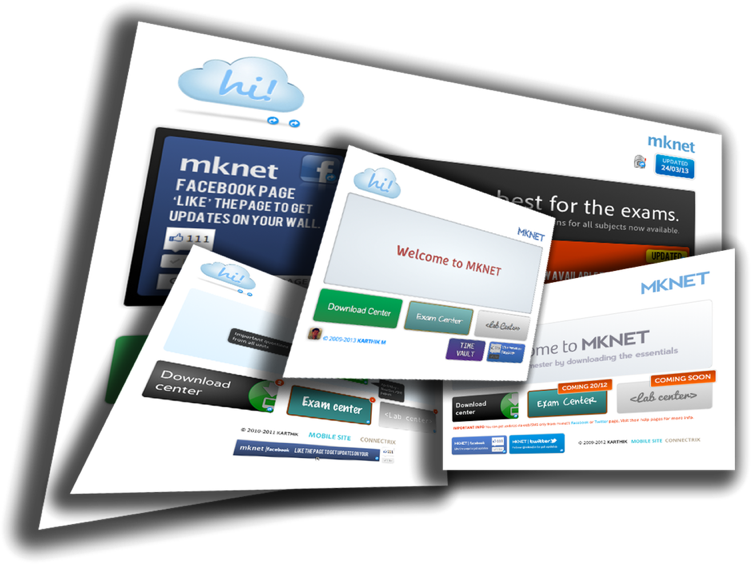
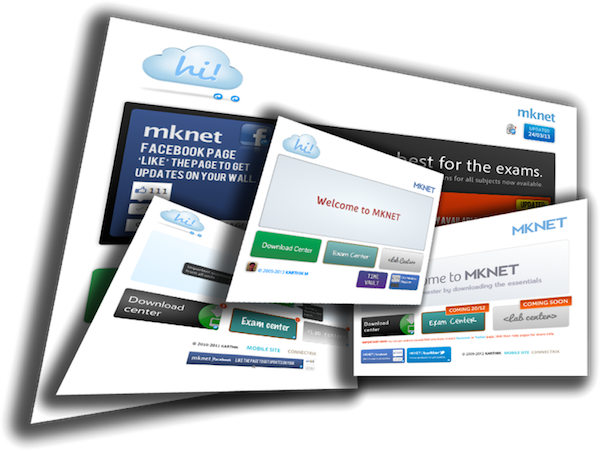
Fixed gallery layout, minor changes to proj container layout

diff --git a/styles.css b/styles.css
@@ -1,1 +1,1 @@
-@import url(http://fonts.googleapis.com/css?family=Pacifico&text=hi!);@font-face{font-family:"Nitti Grotesk";src:url(fonts/nittigrotesk-normal.otf) format('opentype');}@font-face{font-family:"Nitti Grotesk Bold";src:url(fonts/nittigrotesk-bold.otf) format('opentype');}@font-face{font-family:"Apercu";src:url(fonts/apercu_mono_pro.ttf) format('truetype');}body{background-color:#373737}::selection{background-color:#384dd8;color:#8a94d3}hr{border:none;height:1px;background:-webkit-linear-gradient(left, #ffffff 0%, #d9d9d9 5%, #bcbcbc 50%, #d8d8d8 95%, #ffffff 100%)}.header{position:fixed;width:100%;height:auto;padding:1px 0px 8px 0px;z-index:0;text-align:center;box-shadow:none;border-radius:1px;background-color:white;-webkit-animation:fadeInDown 0.5s;animation:fadeInDown 0.5s;-webkit-transition:all 0.3s ease-out;transition:all 0.3s ease-out;-webkit-user-select:none;user-select:none}.logo{font-family:Nitti Grotesk,sans-serif;font-size:20px;letter-spacing:2px;text-align:center}.logo-rounded{border-radius:25px}.navlinks{display:inline-block;margin-top:3px;font-family:Apercu,sans-serif;font-size:16px;-webkit-animation:slideInDown 1s;animation:slideInDown 1s}.navlinks>a{display:inline-block;min-width:105px;padding:4px;margin-right:-10px;border-top:2px solid black;border-bottom:2px solid black;border-left:2px solid black;color:black;text-decoration:none;cursor:default;-webkit-transition:all 0.2s ease-out;transition:all 0.2s ease-out}.navlinks>a.left{border-radius:4px 0px 0px 4px}.navlinks>a.right{border-radius:0px 4px 4px 0px;border-right:2px solid black;margin-right:10px}.navlinks>a:hover{color:#ffffff;background-color:black;-webkit-transition:all 0.2s ease;transition:all 0.2s ease}.navlinks>a:active{color:#9b9b9b;background-color:#353535;-webkit-transition:all 0.2s ease-in;transition:all 0.2s ease-in}.container-fluid{padding:0px}.row{margin-left:0;margin-right:0}.mkcontainer{top:74px;position:relative;border-radius:1px;overflow-x:hidden !important;-webkit-animation:fadeIn 0.2s;animation:fadeIn 0.2s}.contentcontainer,.proj-container,.design-container,.abt-container{z-index:10;position:relative}.pre{text-align:center;font-family:Nitti Grotesk Bold,sans-serif;font-size:100px;text-shadow:0px 0px 50px rgba(0,0,0,0.8);height:50vh;line-height:50vh;background-position:50% 0%;background-size:cover;background-attachment:fixed;-webkit-user-select:none;user-select:none}.pre-hello-container{overflow:hidden}.pre-hello{height:100vh;line-height:90vh;font-family:Pacifico;background-image:url(images/bg.jpg);-webkit-animation-duration:0.5s;animation-duration:0.5s;-webkit-user-select:none;user-select:none}.pre-proj{background-image:url(images/proj-banner.jpg)}.proj-container{font-family:Apercu;color:rgba(255,255,255,0.6);font-size:18px;line-height:1.5em;text-align:center;min-height:90vh;padding:20px 32px 32px 32px}.proj-teams{background-color:#332577}.proj-tetris{background-color:#287038}.proj-shipwars{background-color:#793e38}.proj-spark{background-color:#173463}.proj-lelivre{text-align:left;background-color:#286458}.proj-stockr{text-align:right;background-color:#625a4c}.proj-zones{background-color:#5d2f64}.proj-mknet{background-color:#334c72}.proj-aflame{background-color:#C62828}.pre-design{background-image:url(images/rain.jpg)}.design-container{padding:32px;background-color:steelblue}.pre-abt{background-image:url(images/meteor.jpg)}.abt-container{padding:32px;background-color:#323d52}#top-right-logo{float:right;margin-top:-35px;margin-right:8px;-webkit-animation-duration:0.3s;animation-duration:0.3s}.down-arrow{font-size:75px;text-align:center;text-shadow:0px 0px 50px rgba(0,0,0,0.6);cursor:default;margin-top:-175px;z-index:100px;text-decoration:none;color:rgba(240,240,240,0.6);-webkit-animation-iteration-count:infinite;animation-iteration-count:infinite}.down-arrow:hover{text-shadow:0px 0px 50px rgba(100,100,100,0.6);color:#f0f0f0}.down-arrow:active{text-shadow:0px 0px 50px black;color:rgba(240,240,240,0.2)}.title,.title:hover{color:rgba(255,255,255,0.8);cursor:default;text-decoration:none;-webkit-transition:all 0.3s ease;transition:all 0.3s ease}.proj-title{font-family:Apercu;font-size:26px;color:white}.proj-logo{margin-bottom:10px;-webkit-filter:drop-shadow(0px 0px 30px rgba(25, 25, 25, 0.32));filter:drop-shadow(0px 0px 30px rgba(25, 25, 25, 0.32))}.mktext{font-family:Apercu;color:rgba(255,255,255,0.6);font-size:18px;line-height:1.5em;text-align:justify;-webkit-transition:all 0.2s ease-in;transition:all 0.2s ease-in}.mktag,.tag-time,.tag-tech{font-family:Apercu;font-size:14px;border-radius:4px;border:1px solid rgba(255,255,255,0.5);padding:3px 6px 3px 6px;cursor:default;-webkit-user-select:none;user-select:none}.tag-time{color:rgba(255,255,255,0.7);background-color:rgba(255,255,255,0.2)}.tag-tech{color:rgba(255,255,255,0.5)}.mkimg{float:right;margin-left:7px;background-image:url(images/mk.jpg);background-size:cover;width:100px;height:100px;box-shadow:inset 0px 0px 5px #232323;border-radius:50px}.link-btn{float:left;margin:5px;padding:5px;color:white;background:none;font-size:35px;border:none;border-radius:4px;cursor:default;text-decoration:none;-webkit-transition:all 0.2s ease-in;transition:all 0.2s ease-in;-webkit-user-select:none;user-select:none}.link-btn.email:hover{background-color:#0f93ff;color:white}.link-btn.linkedin:hover{background-color:#2286ba;color:white}.link-btn.twitter:hover{background-color:#59adeb;color:white}.link-btn.github:hover{background-color:white;color:#2f2f2f}.link-btn.instagram:hover{background-color:#487597;color:#ffffff}.gallery{padding:10px 0px 10px 5px;width:100%}.gallery img{width:auto;height:96px;border-radius:4px;-webkit-transition:all 0.2s ease;transition:all 0.2s ease;cursor:-webkit-zoom-in}.gallery img:hover{-webkit-transform:scale(1.2);transform:scale(1.2);box-shadow:0px 0px 20px 10px rgba(0,0,0,0.2);border:3px solid #0b65ff}.gallery img:active{-webkit-filter:brightness(80%)}.gallery figure{display:block;float:left;margin:5px 5px 0px 0px}.gallery figcaption{display:none}.pswp__caption{font-family:Apercu}@media only screen and (max-width: 600px){.header{-webkit-animation:rubberBand 0.6s;animation:rubberBand 0.6s}.logo{font-size:18px;-webkit-animation:slideInDown 1s;animation:slideInDown 1s}.navlinks{margin-top:2px;-webkit-animation:slideInDown 1s;animation:slideInDown 1s}.navlinks>a{border-width:1px;padding:4px 8px 4px 8px;font-size:14px;min-width:50px}.navlinks>a.right{border-width:1px}.mkcontainer{top:65px}.pre-hello{height:90vh}.pre{font-size:60px;text-shadow:0px 0px 40px #161616;background-attachment:scroll;background-position:50% 0%}.mktext{font-size:19px}#top-right-logo{margin-top:-32px;margin-right:5px}}
+@import url(http://fonts.googleapis.com/css?family=Pacifico&text=hi!);@font-face{font-family:"Nitti Grotesk";src:url(fonts/nittigrotesk-normal.otf) format('opentype');}@font-face{font-family:"Nitti Grotesk Bold";src:url(fonts/nittigrotesk-bold.otf) format('opentype');}@font-face{font-family:"Apercu";src:url(fonts/apercu_mono_pro.ttf) format('truetype');}body{background-color:#373737}::selection{background-color:#384dd8;color:#8a94d3}hr{border:none;height:1px;background:-webkit-linear-gradient(left, #ffffff 0%, #d9d9d9 5%, #bcbcbc 50%, #d8d8d8 95%, #ffffff 100%)}.header{position:fixed;width:100%;height:auto;padding:1px 0px 8px 0px;z-index:0;text-align:center;box-shadow:none;border-radius:1px;background-color:white;-webkit-animation:fadeInDown 0.5s;animation:fadeInDown 0.5s;-webkit-transition:all 0.3s ease-out;transition:all 0.3s ease-out;-webkit-user-select:none;user-select:none}.logo{font-family:Nitti Grotesk,sans-serif;font-size:20px;letter-spacing:2px;text-align:center}.logo-rounded{border-radius:25px}.navlinks{display:inline-block;margin-top:3px;font-family:Apercu,sans-serif;font-size:16px;-webkit-animation:slideInDown 1s;animation:slideInDown 1s}.navlinks>a{display:inline-block;min-width:105px;padding:4px;margin-right:-10px;border-top:2px solid black;border-bottom:2px solid black;border-left:2px solid black;color:black;text-decoration:none;cursor:default;-webkit-transition:all 0.2s ease-out;transition:all 0.2s ease-out}.navlinks>a.left{border-radius:4px 0px 0px 4px}.navlinks>a.right{border-radius:0px 4px 4px 0px;border-right:2px solid black;margin-right:10px}.navlinks>a:hover{color:#ffffff;background-color:black;-webkit-transition:all 0.2s ease;transition:all 0.2s ease}.navlinks>a:active{color:#9b9b9b;background-color:#353535;-webkit-transition:all 0.2s ease-in;transition:all 0.2s ease-in}.container-fluid{padding:0px}.row{margin-left:0;margin-right:0}.mkcontainer{top:74px;position:relative;border-radius:1px;overflow-x:hidden !important;-webkit-animation:fadeIn 0.2s;animation:fadeIn 0.2s}.contentcontainer,.proj-container,.design-container,.abt-container{z-index:10;position:relative}.pre{text-align:center;font-family:Nitti Grotesk Bold,sans-serif;font-size:100px;text-shadow:0px 0px 50px rgba(0,0,0,0.8);height:50vh;line-height:50vh;background-position:50% 0%;background-size:cover;background-attachment:fixed;-webkit-user-select:none;user-select:none}.pre-hello-container{overflow:hidden}.pre-hello{height:100vh;line-height:90vh;font-family:Pacifico;background-image:url(images/bg.jpg);-webkit-animation-duration:0.5s;animation-duration:0.5s;-webkit-user-select:none;user-select:none}.pre-proj{background-image:url(images/proj-banner.jpg)}.proj-container{font-family:Apercu;color:rgba(255,255,255,0.6);font-size:18px;line-height:1.5em;text-align:center;height:auto;padding:20px 32px 32px 32px}.proj-teams{background-color:#332577}.proj-tetris{background-color:#287038}.proj-shipwars{background-color:#793e38}.proj-spark{background-color:#173463}.proj-lelivre{background-color:#286458}.proj-stockr{background-color:#625a4c}.proj-zones{background-color:#5d2f64}.proj-mknet{background-color:#334c72}.proj-aflame{background-color:#C62828}.pre-design{background-image:url(images/rain.jpg)}.design-container{padding:32px;background-color:steelblue}.pre-abt{background-image:url(images/meteor.jpg)}.abt-container{padding:32px;background-color:#323d52}#top-right-logo{float:right;margin-top:-35px;margin-right:8px;-webkit-animation-duration:0.3s;animation-duration:0.3s}.down-arrow{font-size:75px;text-align:center;text-shadow:0px 0px 50px rgba(0,0,0,0.6);cursor:default;margin-top:-175px;z-index:100px;text-decoration:none;color:rgba(240,240,240,0.6);-webkit-animation-iteration-count:infinite;animation-iteration-count:infinite}.down-arrow:hover{text-shadow:0px 0px 50px rgba(100,100,100,0.6);color:#f0f0f0}.down-arrow:active{text-shadow:0px 0px 50px black;color:rgba(240,240,240,0.2)}.title,.title:hover{color:rgba(255,255,255,0.8);cursor:default;text-decoration:none;-webkit-transition:all 0.3s ease;transition:all 0.3s ease}.proj-title{font-family:Apercu;font-size:26px;color:white}.proj-logo{margin-bottom:10px;-webkit-filter:drop-shadow(0px 0px 30px rgba(25, 25, 25, 0.32));filter:drop-shadow(0px 0px 30px rgba(25, 25, 25, 0.32))}.mktext{font-family:Apercu;color:rgba(255,255,255,0.6);font-size:18px;line-height:1.5em;text-align:justify;-webkit-transition:all 0.2s ease-in;transition:all 0.2s ease-in}.mktag,.tag-time,.tag-tech{font-family:Apercu;font-size:14px;border-radius:4px;border:1px solid rgba(255,255,255,0.5);padding:3px 6px 3px 6px;cursor:default;-webkit-user-select:none;user-select:none}.tag-time{color:rgba(255,255,255,0.7);background-color:rgba(255,255,255,0.2)}.tag-tech{color:rgba(255,255,255,0.5)}.mkimg{float:right;margin-left:7px;background-image:url(images/mk.jpg);background-size:cover;width:100px;height:100px;box-shadow:inset 0px 0px 5px #232323;border-radius:50px}.link-btn{float:left;margin:5px;padding:5px;color:white;background:none;font-size:35px;border:none;border-radius:4px;cursor:default;text-decoration:none;-webkit-transition:all 0.2s ease-in;transition:all 0.2s ease-in;-webkit-user-select:none;user-select:none}.link-btn.email:hover{background-color:#0f93ff;color:white}.link-btn.linkedin:hover{background-color:#2286ba;color:white}.link-btn.twitter:hover{background-color:#59adeb;color:white}.link-btn.github:hover{background-color:white;color:#2f2f2f}.link-btn.instagram:hover{background-color:#487597;color:#ffffff}.gallery{display:block;padding:10px 5px 0px 5px;width:100%}.gallery img{width:auto;max-height:96px;border-radius:4px;-webkit-transition:all 0.3s ease;transition:all 0.3s ease;cursor:-webkit-zoom-in;cursor:-moz-zoom-in}.gallery img:hover{-webkit-transform:scale(1.2);transform:scale(1.2);box-shadow:0px 0px 20px 10px rgba(0,0,0,0.3);border:3px solid #0b65ff}.gallery img:active{-webkit-filter:brightness(70%);filter:brightness(70%)}.gallery figure{display:inline-block;margin:10px 1px 0px 0px}.gallery figcaption{display:none}.pswp__caption{font-family:Apercu}@media only screen and (max-width: 600px){.header{-webkit-animation:rubberBand 0.6s;animation:rubberBand 0.6s}.logo{font-size:18px;-webkit-animation:slideInDown 1s;animation:slideInDown 1s}.navlinks{margin-top:2px;-webkit-animation:slideInDown 1s;animation:slideInDown 1s}.navlinks>a{border-width:1px;padding:4px 8px 4px 8px;font-size:14px;min-width:50px}.navlinks>a.right{border-width:1px}.mkcontainer{top:65px}.pre-hello{height:90vh}.pre{font-size:60px;text-shadow:0px 0px 40px #161616;background-attachment:scroll;background-position:50% 0%}.mktext{font-size:19px}#top-right-logo{margin-top:-32px;margin-right:5px}}

diff --git a/index.html b/index.html
@@ -62,7 +62,7 @@
                     <span class="tag-tech wow bounceIn">NodeJS [Meteor]</span>
                     <span class="tag-tech wow bounceIn">MongoDB</span>
                 </div>
-                <div class="gallery">
+                <div class="gallery wow zoomIn">
                     <figure>
                         <a href="images/proj/gallery/teams/task-notes.png" data-size="2304x1440"><img src="images/proj/gallery/teams/task-notes_thumb.jpg">
                         </a>
@@ -122,7 +122,7 @@
                     <span class="tag-tech">PHP</span>
                     <span class="tag-tech">MySQL</span>
                 </div>
-                <div class="gallery">
+                <div class="center-block gallery wow zoomIn">
                     <figure>
                         <a href="images/proj/gallery/tetris/tetris-game.png" data-size="2089x1205"><img src="images/proj/gallery/tetris/tetris-game_thumb.jpg">
                         </a>
@@ -152,7 +152,7 @@
                     <span class="tag-tech">Java</span>
                     <span class="tag-tech">Postgres</span>
                 </div>
-                <div class="gallery">
+                <div class="gallery wow zoomIn">
                     <figure>
                         <a href="images/proj/gallery/shipwars/shipwars-game1.png" data-size="960x800"><img src="images/proj/gallery/shipwars/shipwars-game1_thumb.jpg">
                         </a>
@@ -191,7 +191,7 @@
                     <span class="tag-tech">iOS</span>
                     <span class="tag-tech">Objective - C</span>
                 </div>
-                <div class="gallery">
+                <div class="gallery wow zoomIn">
                     <figure>
                         <a href="images/proj/gallery/spark/spark-map.jpg" data-size="640x1136"><img src="images/proj/gallery/spark/spark-map_thumb.jpg">
                         </a>
@@ -200,28 +200,27 @@
                     <figure>
                         <a href="images/proj/gallery/spark/spark-msg.jpg" data-size="640x1136"><img src="images/proj/gallery/spark/spark-msg_thumb.jpg">
                         </a>
-                        <figcaption>Messages view</figcaption>
+                        <figcaption><b>Spark</b> - Messages view</figcaption>
                     </figure>
                     <figure>
                         <a href="images/proj/gallery/spark/spark-notification.jpg" data-size="640x1136"><img src="images/proj/gallery/spark/spark-notification_thumb.jpg">
                         </a>
-                        <figcaption>In-app notification</figcaption>
+                        <figcaption><b>Spark</b> - In-app notification</figcaption>
                     </figure>
                     <figure>
                         <a href="images/proj/gallery/spark/spark-passcode.jpg" data-size="640x1136"><img src="images/proj/gallery/spark/spark-passcode_thumb.jpg">
                         </a>
-                        <figcaption>spark Passcode view</figcaption>
+                        <figcaption><b>Spark</b> - spark Passcode view</figcaption>
                     </figure>
                     <figure>
                         <a href="images/proj/gallery/spark/spark-settings.jpg" data-size="640x1136"><img src="images/proj/gallery/spark/spark-settings_thumb.jpg">
                         </a>
-                        <figcaption>spark Settings view</figcaption>
+                        <figcaption><b>Spark</b> - spark Settings view</figcaption>
                     </figure>
                 </div>
             </div>
 
-            <div class="row">
-                <div class="wow fadeInUp proj-container proj-lelivre col-md-6">
+                <div class="wow fadeInUp proj-container proj-lelivre row">
                     <img class="wow zoomIn proj-logo" src="images/proj/logos/lelivre.png" width="150">
                     <div class="proj-title">LELIVRE</div>
                     <p class="wow zoomIn">Teamed up with one other person to design and develop an online bookstore web app.</p>
@@ -234,7 +233,7 @@
                         <span class="tag-tech">Postgres</span>
                     </div>
 
-                    <div class="gallery">
+                    <div class="gallery wow zoomIn">
                         <figure>
                             <a href="images/proj/gallery/lelivre/lelivre-books.png" data-size="2024x1160"><img src="images/proj/gallery/lelivre/lelivre-books_thumb.jpg">
                             </a>
@@ -253,7 +252,7 @@
                     </div>
                 </div>
 
-                <div class="wow fadeInUp proj-container proj-stockr col-md-6">
+                <div class="wow fadeInUp proj-container proj-stockr row">
                     <img class="wow zoomIn proj-logo" src="images/proj/logos/stockr.png" width="150">
                     <div class="proj-title">STOCKR</div>
                     <p class="wow zoomIn">Collaborated with a team of 4 using Agile methodologies to create a web app and a mobile app for managing store inventory. Our client was the Cellar Market store at SCU.</p>
@@ -265,7 +264,7 @@
                         <span class="tag-tech">PHP</span>
                         <span class="tag-tech">Java</span>
                     </div>
-                    <div class="gallery">
+                    <div class="gallery wow zoomIn">
                         <figure>
                             <a href="images/proj/gallery/stockr/stockr-home.png" data-size="2040x1164"><img src="images/proj/gallery/stockr/stockr-home_thumb.jpg">
                             </a>
@@ -284,7 +283,6 @@
                     </div>
                 </div>
 
-            </div>
             <div class="wow fadeInUp proj-container proj-zones row">
                 <img class="wow zoomIn logo-rounded proj-logo" src="images/proj/logos/zones.png" width="100" height="100">
                 <div class="proj-title">ZONES</div>
@@ -308,7 +306,7 @@
                     <span class="tag-tech">MySQL</span>
                 </div>
                 <br>
-                <img class="img-responsive center-block" src="images/proj/gallery/mknet/mknet.png" alt="mknet">
+                <img class="img-responsive center-block wow zoomIn" src="images/proj/gallery/mknet/mknet.png" alt="mknet">
             </div>
 
 <!--

diff --git a/styles.scss b/styles.scss
@@ -189,7 +189,7 @@ hr {
     font-size: 18px;
     line-height: 1.5em;
 	text-align: center;
-	min-height: 90vh;
+	height: auto;
     padding: 20px $contentPad $contentPad $contentPad;
 }
 
@@ -207,11 +207,9 @@ hr {
 	background-color: #173463;
 }
 .proj-lelivre {
-	text-align: left;
 	background-color: #286458;
 }
 .proj-stockr {
-	text-align: right;
 	background-color: #625a4c;
 }
 .proj-zones {
@@ -359,32 +357,34 @@ hr {
 	color: #ffffff;
 }
 .gallery {
-padding: 10px 0px 10px 5px;
-  width: 100%;
+	display: block;
+	padding: 10px 5px 0px 5px;
+	width: 100%;
 }
 .gallery img {
 	width: auto;
-	height: 96px;
+	max-height: 96px;
 	border-radius: 4px;
-	@include transition(0.2s,ease);
+	@include transition(0.3s,ease);
 	cursor: -webkit-zoom-in;
-}
-.gallery img:hover {
-	-webkit-transform: scale(1.2);
-	transform: scale(1.2);
-	box-shadow: 0px 0px 20px 10px rgba(0, 0, 0, 0.2);
-    border: 3px solid #0b65ff;
-}
-.gallery img:active {
-	-webkit-filter: brightness(80%);
+	cursor: -moz-zoom-in;
+	&:hover {
+		-webkit-transform: scale(1.2);
+		transform: scale(1.2);
+		box-shadow: 0px 0px 20px 10px rgba(0, 0, 0, 0.3);
+	    border: 3px solid #0b65ff;
+	}
+	&:active {
+		-webkit-filter: brightness(70%);
+		filter: brightness(70%);
+	}
 }
 .gallery figure {
-  display: block;
-  float: left;
-  margin: 5px 5px 0px 0px;
+	display: inline-block;
+	margin: 10px 1px 0px 0px;
 }
 .gallery figcaption {
-  display: none;
+	display: none;
 }
 .pswp__caption {
 	font-family: Apercu;
